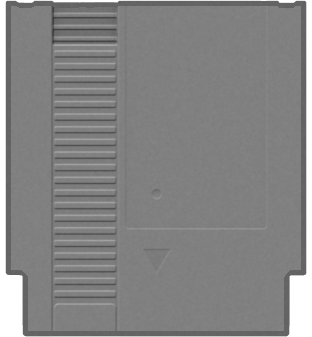
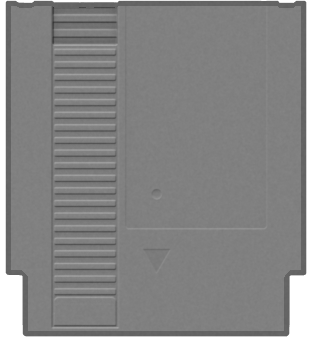
NES cart: the grip ridges run high-low from the top edge, and a flat rim runs straight along the bottom under the channel
Claude-Session: https://claude.ai/code/session_01129iw1QqFJMHZyH1VgW44k

Changed region(s): [[0.1731, 0.0297, 0.375, 0.8902], [0.1731, 0.9496, 0.375, 0.9792]]

diff --git a/tools/carts/nes_render.py b/tools/carts/nes_render.py
@@ -27,19 +27,23 @@ height = np.zeros((h, w), np.float32)
 dist = nd.distance_transform_edt(inside)
 height += np.where(inside, np.clip(dist / (3.0 * SS), 0, 1) ** 0.5, 0) * 10
 
-channel = rect(0.156, -0.01, 0.374, 0.995) & inside
+# the channel and its foot pad stop above a flat rim along the bottom edge (Roy)
+channel = rect(0.156, -0.01, 0.374, 0.972) & inside
 grip = rect(0.160, -0.01, 0.370, 0.132, 0.004) & inside
 label = rect(0.400, -0.01, 0.866, 0.678, 0.010) & inside
-panel = rect(0.163, 0.902, 0.367, 0.990, 0.014)
+panel = rect(0.163, 0.882, 0.367, 0.966, 0.014)
 height -= channel * 3.0
 height -= grip * 9.0
+# ridges from the top edge down: high, low, high, low, high, low (Roy)
+ridges = np.zeros((h, w), bool)
 for k in range(3):
-    v0 = 0.040 + k * 0.035
-    height += rect(0.160, v0, 0.370, v0 + 0.012) * 3.5
+    v0 = k * 0.044
+    ridges |= rect(0.160, -0.01 if k == 0 else v0, 0.370, v0 + 0.022)
+height += ridges * 3.5
 for k in range(20):
-    v0 = 0.151 + k * 0.0375
+    v0 = 0.146 + k * 0.0374
     height += rect(0.164, v0, 0.366, v0 + 0.0175, 0.003) * 2.6
-panel |= rect(0.163, 0.95, 0.367, 0.990)  # square at the foot (Roy)
+panel |= rect(0.163, 0.93, 0.367, 0.966)  # square at the foot (Roy)
 height += panel * 2.6
 height -= label * 1.2
 tri = poly(lambda d: d.polygon([(U(0.458), V(0.741)), (U(0.547), V(0.741)), (U(0.502), V(0.810))], fill=255))
@@ -50,7 +54,7 @@ r = np.hypot(xx - U(0.502), yy - V(0.576)) / (0.017 * w)
 height += (np.where(r < 1, -np.clip(1 - r * r, 0, 1) ** 0.6, 0) + 0.18 * np.exp(-((r - 1.02) / 0.10) ** 2)
            + 0.25 * np.exp(-(r / 0.28) ** 2) * (r < 1)) * 1.8
 # a fine seam where the channel's ridge meets the right half
-height -= rect(0.372, -0.01, 0.376, 0.995) * 0.8
+height -= rect(0.372, -0.01, 0.376, 0.972) * 0.8
 
 hs = nd.gaussian_filter(height, 1.1 * SS / 2)
 gy, gx = np.gradient(hs)
@@ -63,7 +67,7 @@ shade = lam / flat
 # soft occlusion: recesses read a touch darker
 occ = np.clip((nd.gaussian_filter(hs, 6 * SS) - hs) * 0.05, 0, 0.22)
 grey = 119 * (1 + (shade - 1) * 1.5) * (1 - occ)
-grip_soft = nd.gaussian_filter((grip & ~(hs > hs[grip].mean() + 2)).astype(np.float32), SS)
+grip_soft = nd.gaussian_filter((grip & ~ridges).astype(np.float32), SS)
 grey *= 1 - 0.22 * grip_soft
 grey *= 1 - 0.07 * nd.gaussian_filter(tri.astype(np.float32), SS / 2)
 rng = np.random.default_rng(7)
